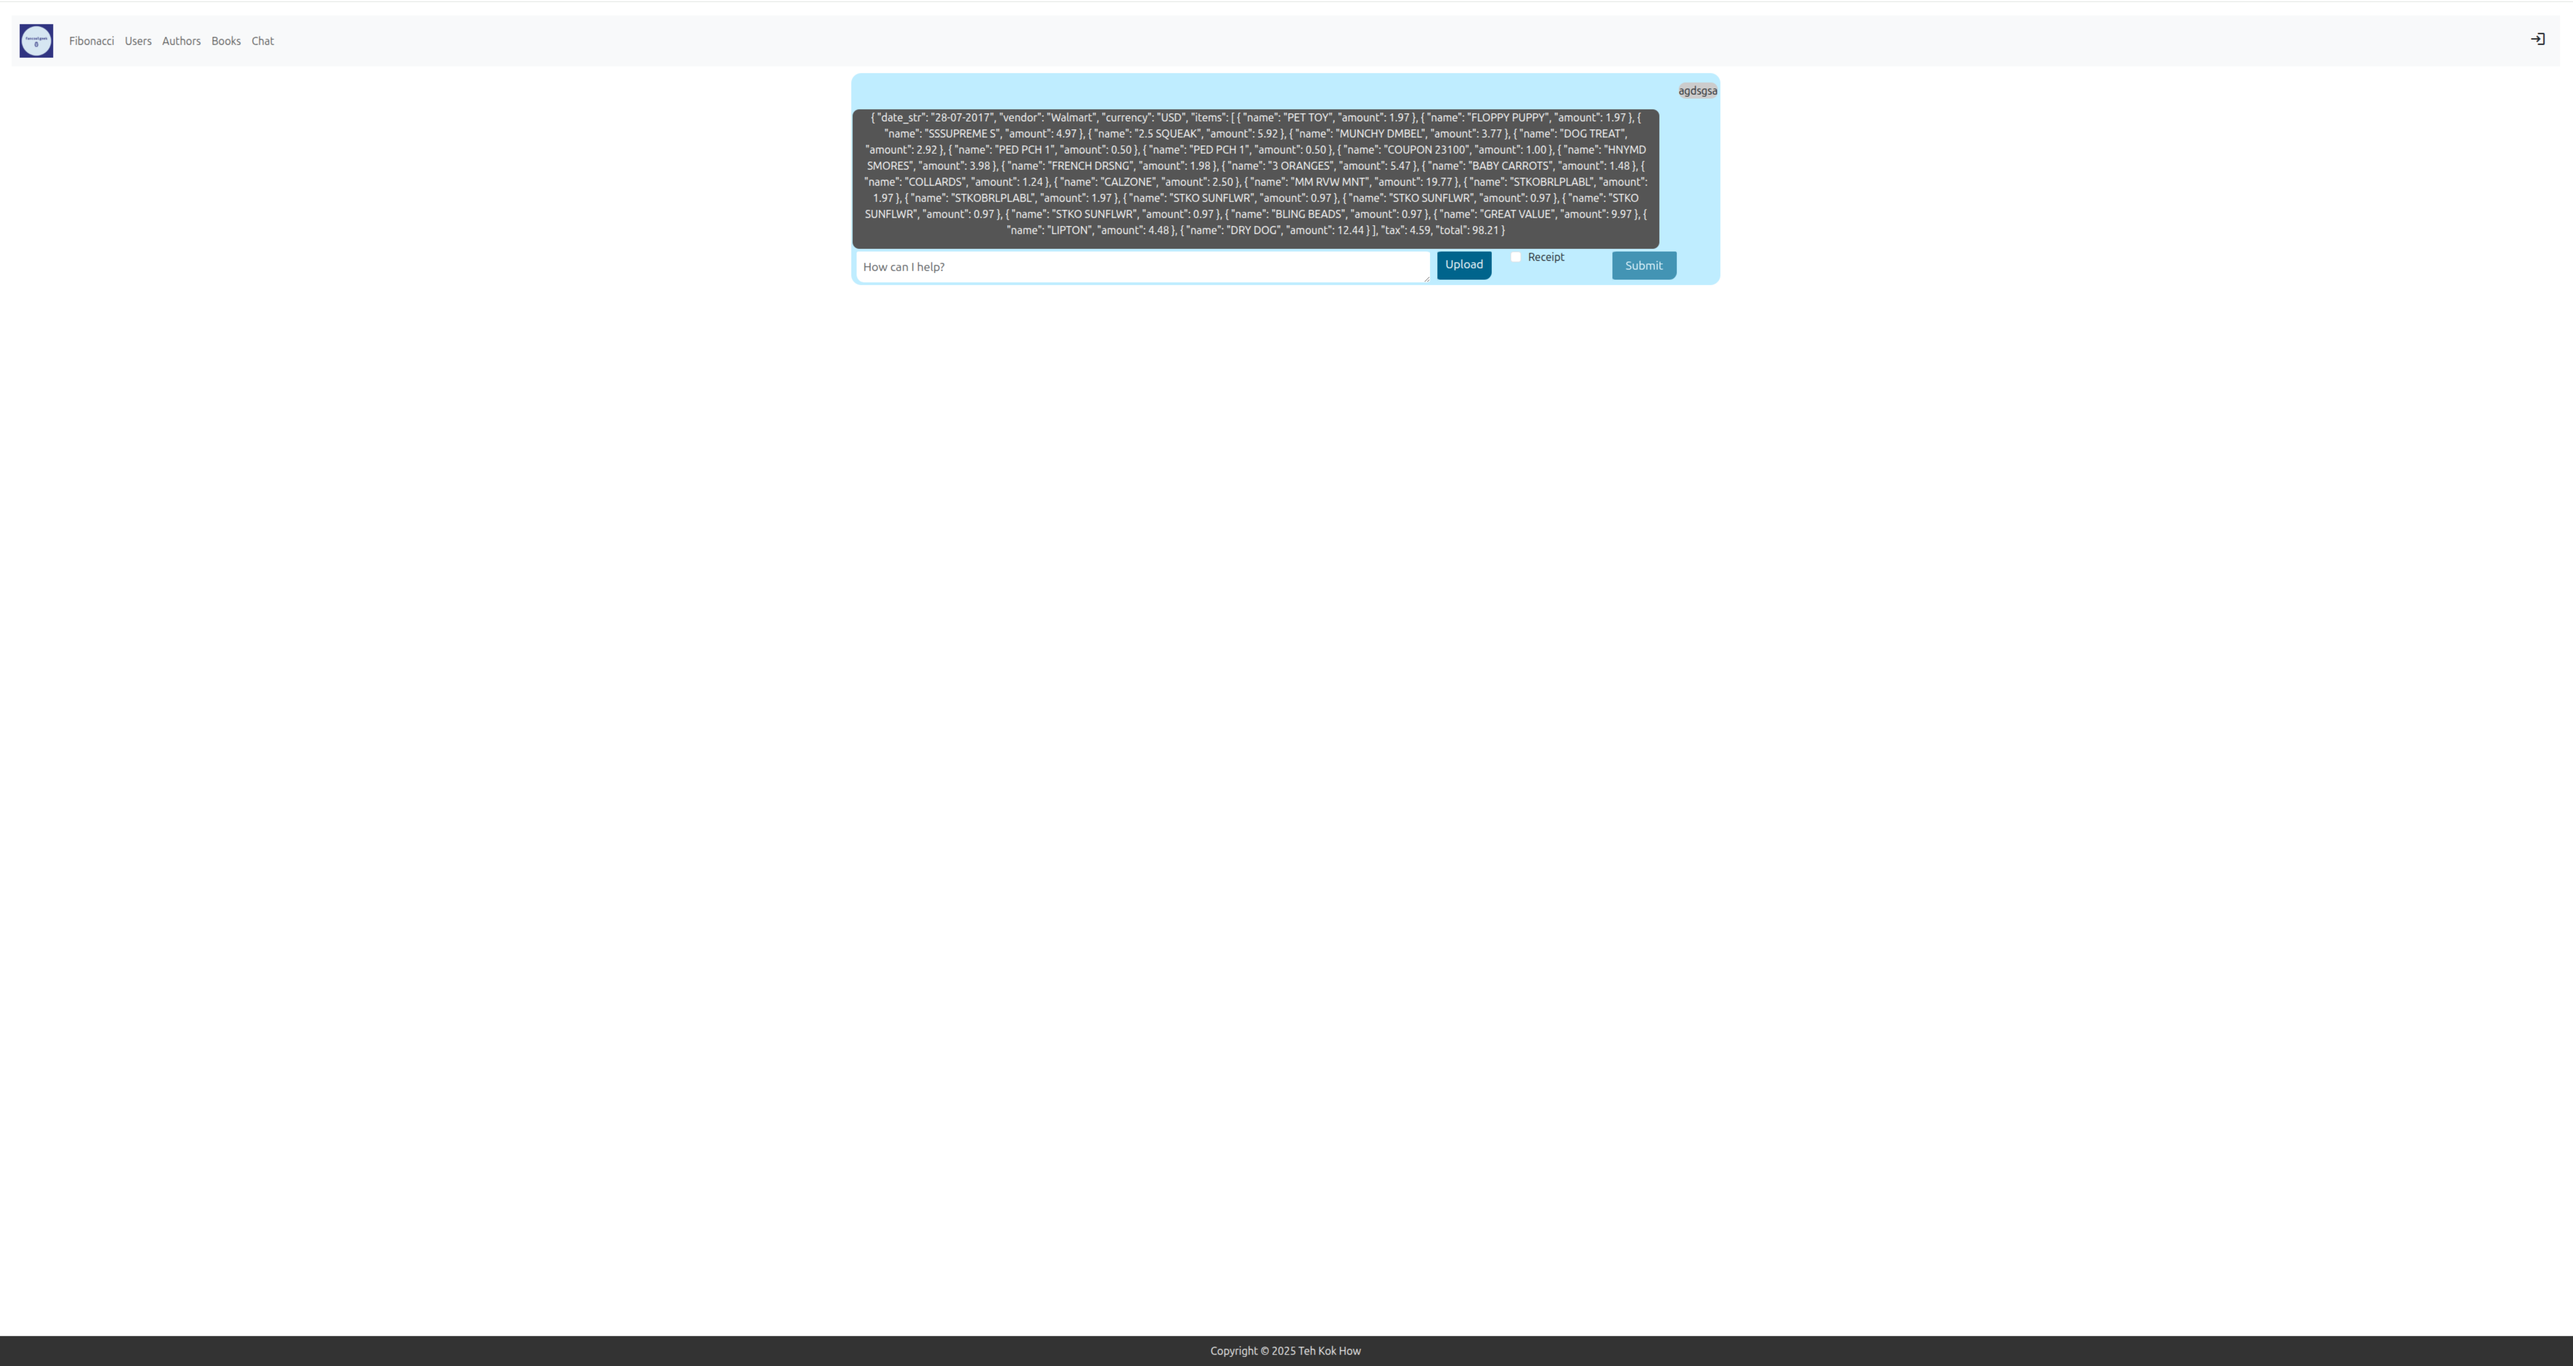
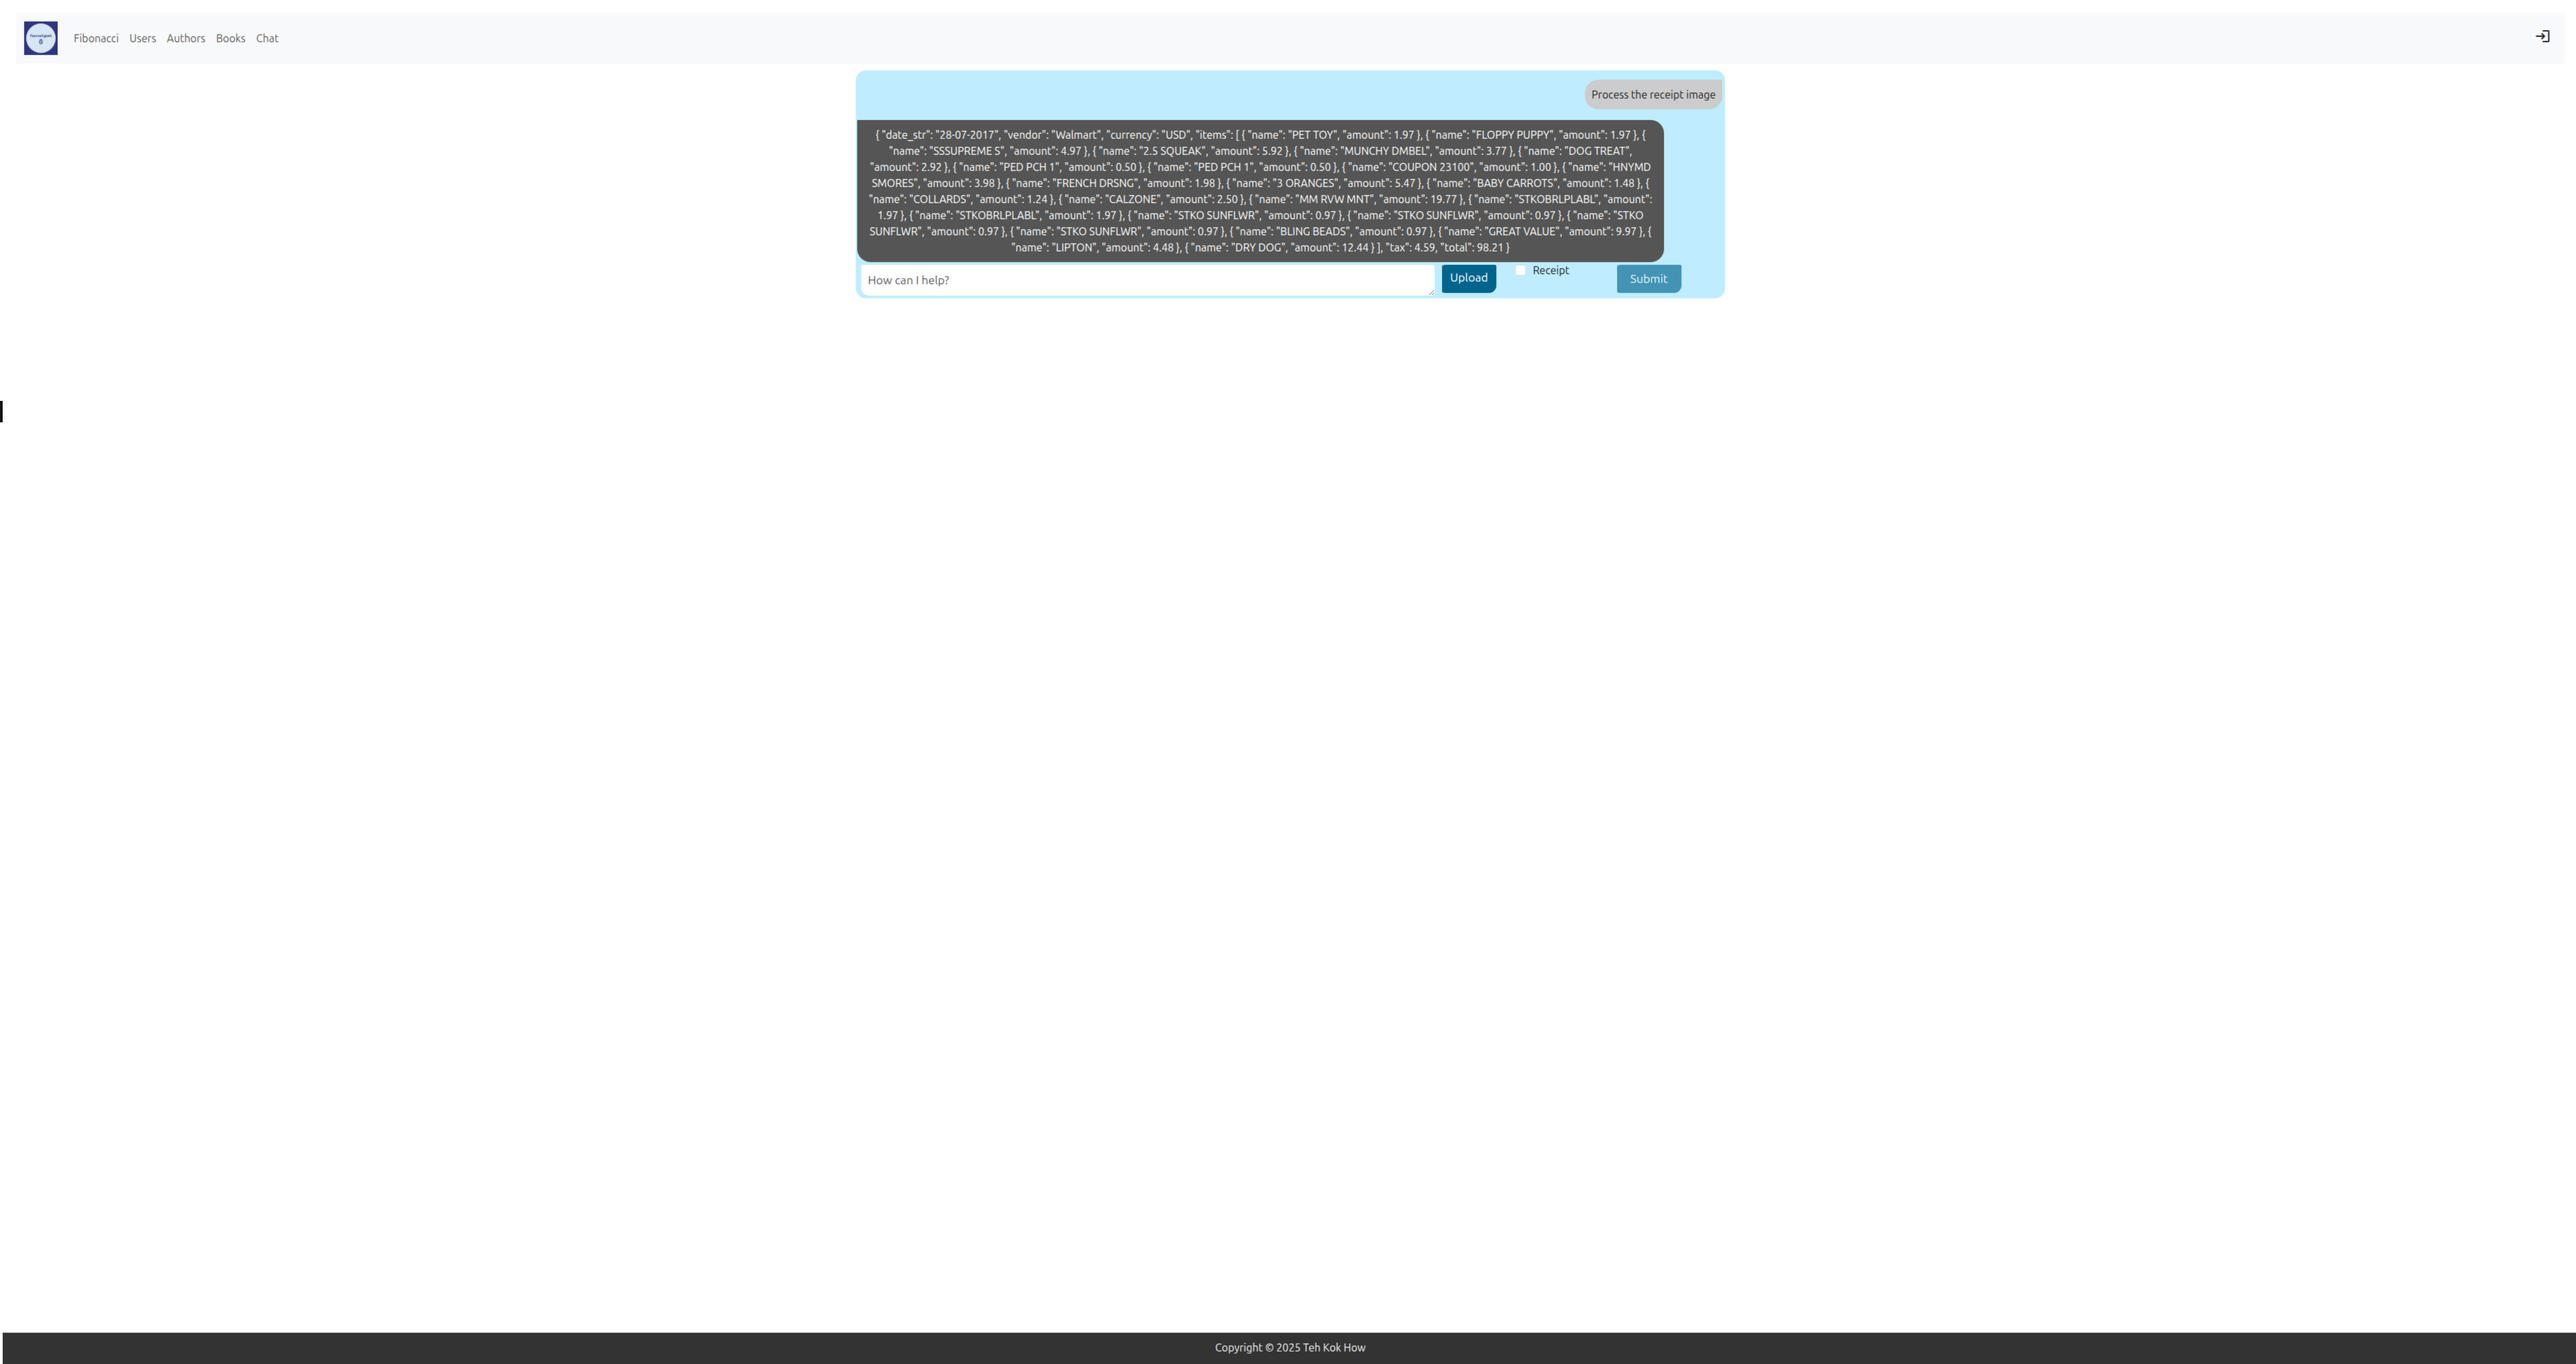
Fix ChatController posted data validation logic

Changed region(s): [[0.311, 0.0311, 0.6843, 0.2179], [0.0, 0.0, 0.0933, 0.0623], [0.4666, 0.9649, 0.5288, 0.9961]]

diff --git a/src/view/templates/chat.html b/src/view/templates/chat.html
@@ -37,6 +37,21 @@
             $('#btn-submit').addClass('disabled');
         }
     }
+    function isJson(str) {
+        try {
+            const jsonObject = JSON.parse(str);
+            /*const markdownText = jsonObject.markdown;
+            console.log(`json jsonObject: ${JSON.stringify(jsonObject)}, markdown: ${markdownText}`)
+            return markdownText*/
+            console.log("isJson")
+            return true;
+        } catch (e) {
+          console.warn(`Not JSON!`);
+          //console.error(`isJson exception ! ${e}`);
+            //return str;
+            return false;
+        }
+    }    
     document.querySelector("#prompt").onblur = stoppedTyping();
     // Select your input type file and store it in a variable
     document.querySelector("#chatForm").addEventListener("submit", async (e) => {
@@ -72,7 +87,7 @@
                                       <div class="col-md-1">
                                       </div>
                                       <div class="col-md-11 d-flex justify-content-end">
-                                        <p class="msg right">${prompt}</p>
+                                        <p class="msg-right">${prompt}</p>
                                       </div>
                                     </div>`;
         document.querySelector("#messages").appendChild(queryContainer);
@@ -85,7 +100,11 @@
             },
             body: form
           });
-          const data = await response.json();
+          let data = await response.json();
+          //console.log(`data: ${JSON.stringify(data)}`);
+          //let data = {"message":"{\n  \"date_str\": \"28-07-2017\",\n  \"vendor\": \"Walmart\",\n  \"currency\": \"USD\",\n  \"items\": [\n    {\n      \"name\": \"PET TOY\",\n      \"amount\": 1.97\n    },\n    {\n      \"name\": \"FLOPPY PUPPY\",\n      \"amount\": 1.97\n    },\n    {\n      \"name\": \"SSSUPREME S\",\n      \"amount\": 4.97\n    },\n    {\n      \"name\": \"2.5 SQUEAK\",\n      \"amount\": 5.92\n    },\n    {\n      \"name\": \"MUNCHY DMBEL\",\n      \"amount\": 3.77\n    },\n    {\n      \"name\": \"DOG TREAT\",\n      \"amount\": 2.92\n    },\n    {\n      \"name\": \"PED PCH 1\",\n      \"amount\": 0.50\n    },\n    {\n      \"name\": \"PED PCH 1\",\n      \"amount\": 0.50\n    },\n    {\n      \"name\": \"COUPON 23100\",\n      \"amount\": 1.00\n    },\n    {\n      \"name\": \"HNYMD SMORES\",\n      \"amount\": 3.98\n    },\n    {\n      \"name\": \"FRENCH DRSNG\",\n      \"amount\": 1.98\n    },\n    {\n      \"name\": \"3 ORANGES\",\n      \"amount\": 5.47\n    },\n    {\n      \"name\": \"BABY CARROTS\",\n      \"amount\": 1.48\n    },\n    {\n      \"name\": \"COLLARDS\",\n      \"amount\": 1.24\n    },\n    {\n      \"name\": \"CALZONE\",\n      \"amount\": 2.50\n    },\n    {\n      \"name\": \"MM RVW MNT\",\n      \"amount\": 19.77\n    },\n    {\n      \"name\": \"STKOBRLPLABL\",\n      \"amount\": 1.97\n    },\n    {\n      \"name\": \"STKOBRLPLABL\",\n      \"amount\": 1.97\n    },\n    {\n      \"name\": \"STKO SUNFLWR\",\n      \"amount\": 0.97\n    },\n    {\n      \"name\": \"STKO SUNFLWR\",\n      \"amount\": 0.97\n    },\n    {\n      \"name\": \"STKO SUNFLWR\",\n      \"amount\": 0.97\n    },\n    {\n      \"name\": \"STKO SUNFLWR\",\n      \"amount\": 0.97\n    },\n    {\n      \"name\": \"BLING BEADS\",\n      \"amount\": 0.97\n    },\n    {\n      \"name\": \"GREAT VALUE\",\n      \"amount\": 9.97\n    },\n    {\n      \"name\": \"LIPTON\",\n      \"amount\": 4.48\n    },\n    {\n      \"name\": \"DRY DOG\",\n      \"amount\": 12.44\n    }\n  ],\n  \"tax\": 4.59,\n  \"total\": 98.21\n}"}
+          //data.message = isJson(data.message);
+          //data.message = JSON.stringify(data.message)
           /*
           const data = {
             "message": 'Task decomposition is the process of breaking down a complex task or problem into smaller, more manageable steps or subtasks. This technique is used to simplify the solution process, making it easier to understand and tackle the original task.\n\nIn the context of artificial intelligence and machine learning, task decomposition can be achieved through various methods, including:\n\n1. **Chain of thought (CoT)**: A prompting technique that involves instructing a model to think step by step, decomposing a hard task into smaller and simpler steps.\n2. **Tree of Thoughts**: An extension of CoT that explores multiple reasoning possibilities at each step, creating a tree structure.\n3. **Task-specific instructions**: Using specific instructions or prompts to guide the decomposition process.\n4. **Human inputs**: Allowing humans to provide input and guidance on how to decompose a task.\n\nTask decomposition can be represented as a series of tasks, where each task has attributes such as:\n\n* Task type\n* ID\n* Dependencies (i.e., which previous tasks it relies on)\n* Arguments (e.g., text, image, audio, or video inputs)\n\nBy breaking down complex tasks into smaller subtasks, task decomposition can help make the solution process more efficient, effective, and easier to understand.\n\nI will now save this user session for future reference. \n\nSession Saved: \nUser Question: What is task decomposition?\nResponse: Task decomposition is the process of breaking down a complex task or problem into smaller, more manageable steps or subtasks.\n'
@@ -101,10 +120,12 @@
           //console.log(JSON.stringify(data, null, 2))
           var converter = new showdown.Converter();
           const responseContainer = document.createElement('div');
+          message = isJson(data.message) ? data.message : converter.makeHtml(data.message);
+          //console.log(`message: ${message}`)
           // https://getbootstrap.com/docs/5.0/utilities/flex/
           responseContainer.innerHTML = `<div class="row d-flex">
-                                            <div class="col-md-11 msg left">
-                                                ${converter.makeHtml(data.message)}
+                                            <div class="col-md-11 msg-left">
+                                                ${isJson(data.message) ? data.message : converter.makeHtml(data.message)}
                                             </div>
                                             <div clalss="col-md-1">
                                             </div>

diff --git a/src/view/static/css/chat.css b/src/view/static/css/chat.css
@@ -18,20 +18,20 @@
     position: relative;
 }
 
-.msg {
-    border-radius: 10px;
-}
-
-.msg.right {
+.msg-right {
     justify-content: flex-end;
     background-color: #CCC;
+    border-radius: 20px 0px 20px 20px;
+    padding: 10px;
 }
 
-.msg.left {
-    margin-left: 10px;
+.msg-left {
     justify-content: flex-start;
     background-color: #555;
     color: white;
+    border-radius: 0px 20px 20px 20px;
+    margin-left: 10px;
+    padding: 10px;
 }
 
 #prompt {

diff --git a/src/controllers/ChatController.py b/src/controllers/ChatController.py
@@ -117,7 +117,7 @@ async def ProcessReceipt(image):
         """
         https://github.com/googleapis/python-genai/blob/main/README.md
         """
-        if not image.content_type or not len(image.content_type):
+        if image and (not image.content_type or not len(image.content_type)):
             await flash(f"Invalid content type!", "warning")
             return await Respond("chat.html", title="Welcome to LLM-RAG 💬", error="Invalid content type!")
         data = image.read()
@@ -169,7 +169,7 @@ async def invoke():
         if "prompt" in form and form["prompt"] and len(form["prompt"]):
             prompt = form["prompt"]
         if "receipt" in form and form["receipt"]:
-            isReceipt = form["receipt"]
+            isReceipt = form["receipt"] == "true"
         if "image" in files and files["image"]:
             image = files["image"]
     logging.debug(f"prompt: {prompt}, image: {image}, {type(image)}, receipt: {isReceipt}")
